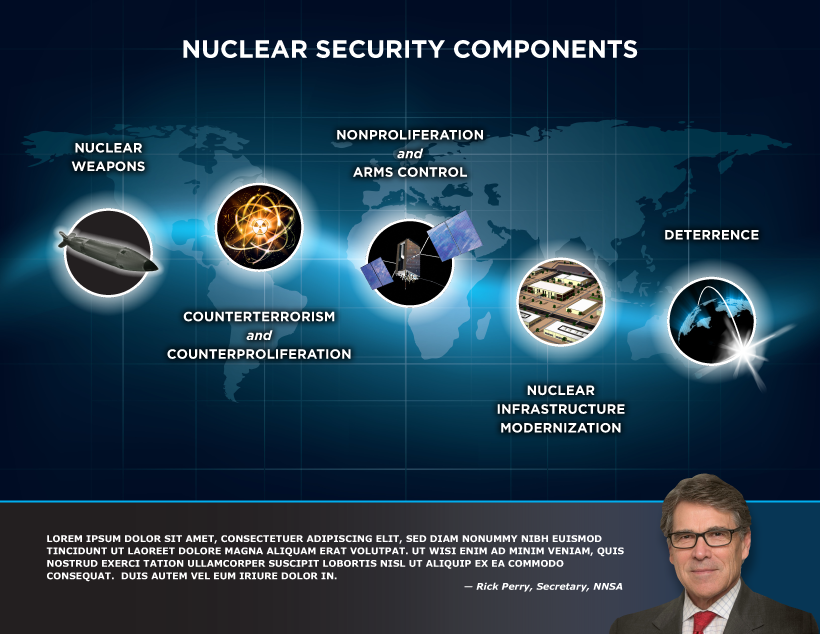
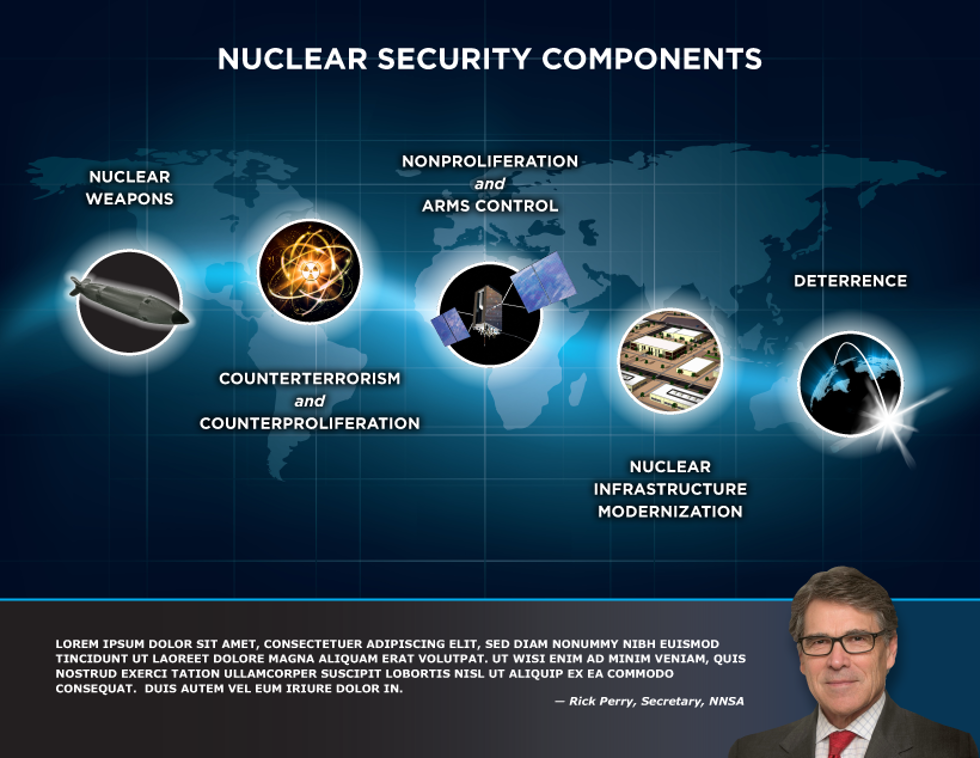
Revamp

diff --git a/infographic.html b/infographic.html
@@ -1,0 +1,51 @@
+<!DOCTYPE html>
+<html>
+    <head>
+        <meta charset="UTF-8">
+        <meta http-equiv="content-type" content="text/html; charset=utf-8">
+        <meta name="viewport" content="width=device-width, initial-scale=1">
+        <link href="https://fonts.googleapis.com/css?family=Montserrat:400,700,700i" rel="stylesheet">
+        <link rel="stylesheet" type="text/css" href="css/reset.css">
+        <link rel="stylesheet" type="text/css" href="css/infographic.css">
+        <!-- include jQuery -->
+        <script src="https://ajax.googleapis.com/ajax/libs/jquery/3.2.1/jquery.min.js"></script>
+    </head>
+    <body>
+        <script type="text/javascript" src="https://pym.nprapps.org/pym.v1.js"></script>
+            <script type="text/javascript">
+                new pym.Child();
+                    pym.Child({ renderCallback: createGraphic });
+            </script>
+            
+            
+        <div id="info_container">
+            
+            <!-- Graphics -->
+            <img id="nuc_wea_txt" src="images/nuclear_weapons_head.png">
+            <img id="nuc_wea_gfx" src="images/b61_icon_white_glow.png">
+            
+            
+            <!-- PopUps -->
+            <div id="overlay_container">
+                <div id="overlay_close">X</div>
+                <div id="nuc_wea_view" class="open_view">
+                    <img id="test" src="images/bkgrd_map.png">
+                    <img id="test" src="images/bkgrd_map.png">
+                    <img id="test" src="images/bkgrd_map.png">
+                </div>
+                <div id="counterterrorism_view" class="open_view">
+                    <img id="test" src="images/bkgrd_map.png">
+                    <img id="test" src="images/bkgrd_map.png">
+                    <img id="test" src="images/bkgrd_map.png">
+                </div>
+                
+            </div>
+            
+            
+        </div>
+        <script type="text/javascript" src="js/interactive.js"></script>
+        <script type="text/javascript">
+            new pym.Child();
+        </script>
+    </body>
+</html>

diff --git a/js/interactive.js b/js/interactive.js
@@ -1,0 +1,53 @@
+$(document).ready(function () {
+    
+    
+    ////////////////////////////////////////////////Hover functions/////////////////////////////////////////
+    ///////////////////////////////////////
+    /////Nuclear Weapons///////////////////
+    ///////////////////////////////////////
+    //Nuclear Weapons Graphic
+    $("#nuc_wea_gfx").hover(function(){
+        $(this).attr("src", "images/b61_icon_gold_glow.png");
+        $("#nuc_wea_txt").attr("src", "images/nuclear_weapons_head_gold.png");
+    },
+        function() {
+            $(this).attr("src", "images/b61_icon_white_glow.png");
+            $("#nuc_wea_txt").attr("src", "images/nuclear_weapons_head.png");
+        });
+    
+    //Nuclear Weapons Text
+    $("#nuc_wea_txt").hover(function(){
+        $(this).attr("src", "images/nuclear_weapons_head_gold.png");
+        $("#nuc_wea_gfx").attr("src", "images/b61_icon_gold_glow.png");
+    },
+        function() {
+            $(this).attr("src", "images/nuclear_weapons_head.png");
+            $("#nuc_wea_gfx").attr("src", "images/b61_icon_white_glow.png");
+        });
+    
+    ///////////////////////////////////////////////
+    /////Counterterrorism//////////////////////////
+    ///////////////////////////////////////////////
+    //
+    
+    
+    //Click functions
+    //Nuclear Weapons Graphic
+    $("#nuc_wea_gfx").click(function(){
+        $("#overlay_container").fadeToggle(500, function() {
+            $("#nuc_wea_view").slideToggle(200);
+        });
+        
+    });
+    
+    //Close Overlay
+    $("#overlay_close").click(function() {
+       $("#overlay_container").fadeToggle(500, function() {
+            $(".open_view").hide();
+       }); 
+    });
+    
+    
+    //Test functions
+    
+});

diff --git a/css/infographic.css b/css/infographic.css
@@ -1,0 +1,91 @@
+body {
+    font-family: 'Montserrat', sans-serif;
+}
+
+#info_container {
+    width: 980px;
+    height: 758px;
+    background-image: url("../images/testBackground.png");
+    background-repeat: no-repeat;
+    background-size: auto;
+    margin: 0 auto;
+}
+
+#nuc_wea_gfx {
+    float: left;
+    position: relative;
+    width: 160px;
+    height: 160px;
+    top: 22.6%;
+    left: 5%;
+    clear: both;
+}
+
+#nuc_wea_txt {
+    float: left;
+    position: relative;
+    width: 110px;
+    height: 55px;
+    top: 21.1%;
+    left: 7.7%;
+    clear: both;
+}
+
+
+/**********************Overlay*****************/
+#overlay_container {
+    position: fixed;
+    top: 0;
+    left: 0;
+    width: 100%;
+    height: 100%;
+    background-color: rgba(0, 0, 0, .8);
+    z-index: 10000;
+    overflow: scroll;
+    display: none;
+}
+
+#overlay_close {
+    position: fixed;
+    width: 14px;
+    padding: 5px;
+    background-color: grey;
+    border: 2px solid rgb(244, 177, 53);
+    border-radius: 3px;
+    color: white;
+    font-weight: bold;
+    text-align: center;
+    right: 25px;
+    left: 0;
+    margin: 13px 5px auto auto;
+}
+
+#overlay_close:hover {
+    cursor: pointer;
+}
+
+
+
+/*******************Testing************************/
+
+#nuc_wea_view {
+    width:980px;
+    display: block;
+    margin: 0 auto;
+    display: none;
+}
+
+#test {
+    width: 490px;
+    height: 300px;
+    display: block;
+    margin: 0 auto;
+}
+
+#test2 {
+    width: 490px;
+    height: 300px;
+    display: block;
+    margin: 0 auto;
+    display: none;
+}

diff --git a/iframe.html b/iframe.html
@@ -59,7 +59,7 @@
                         .attr("cx","50%")
                         .attr("cy","41.5%")
                         .attr("r","50px")
-                        .attr("fill","#ffffff");
+                        .attr("class","sat");
                     
                     //Circles left to right excluding center circle
                     graph.append("circle")
@@ -89,7 +89,7 @@
                     //Background
                     //document.getElementById('landscape').style.backgroundImage = "url('images/thumb-1920-559128.jpg')";
                     document.getElementById('svgDoc').style.backgroundImage = "url('images/testBackground.png')";
-                    document.getElementById('svgDoc').style.backgroundRepeat = "no-repeat";
+                    //document.getElementById('svgDoc').style.backgroundRepeat = "no-repeat";
     			}	else	{
     				graph.append("text")
     					.attr("x",20)

diff --git a/index.html b/index.html
@@ -15,7 +15,7 @@
 
         </div>
 		<script type="text/javascript">
-			new pym.Parent("embed-1", "iframe.html");
+			new pym.Parent("embed-1", "infographic.html");
 		</script>
 	</body>
 </html>
